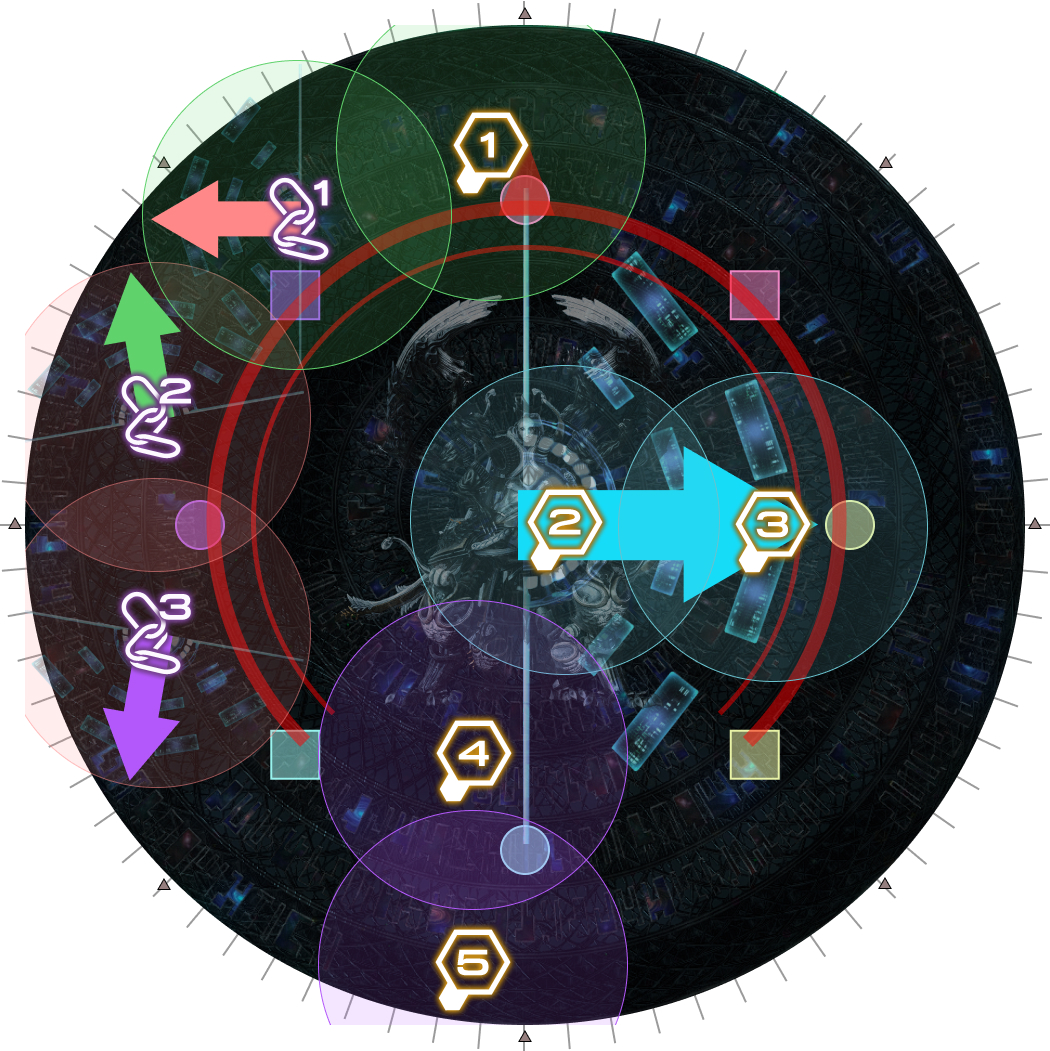
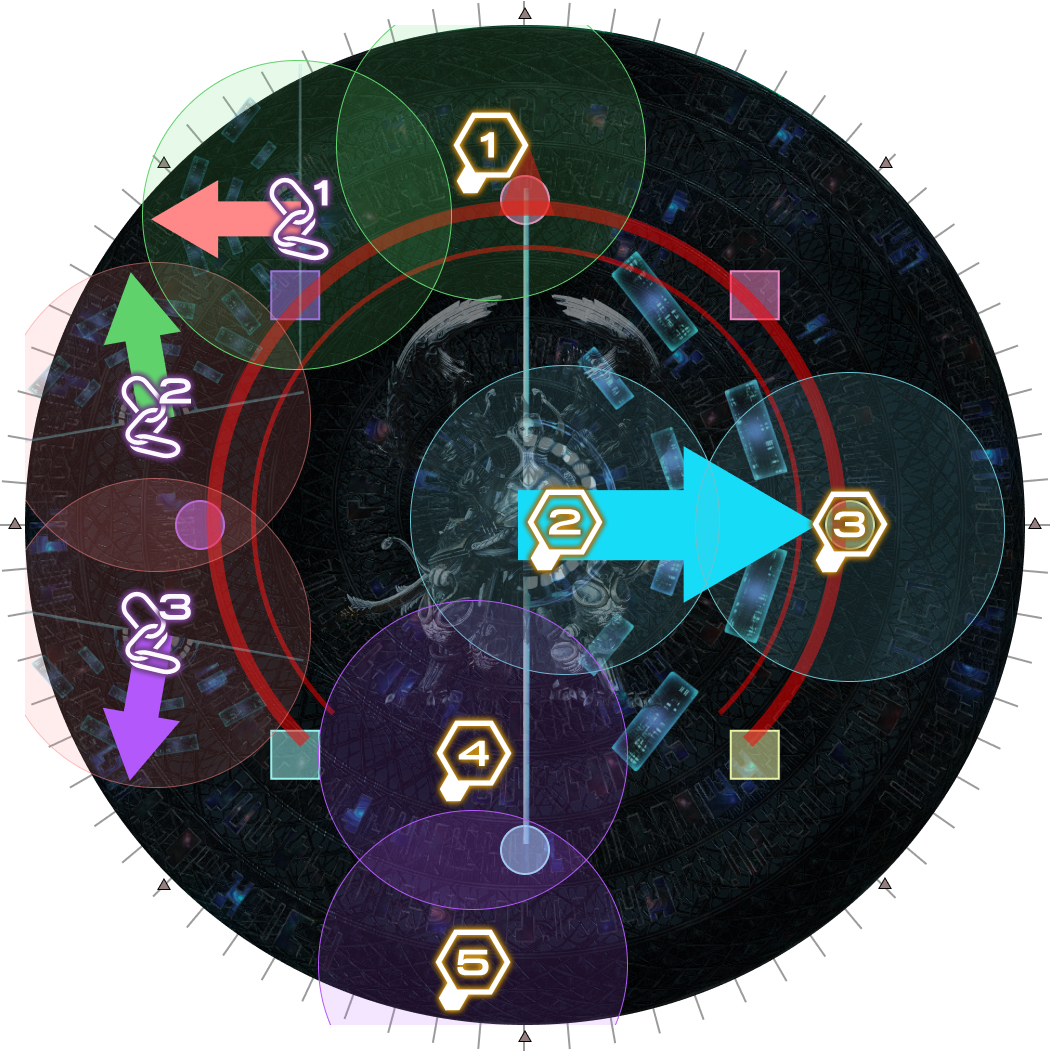
Add headers to monitor diagrams

Changed region(s): [[0.579, 0.3349, 0.9752, 0.6698]]

diff --git a/ultimates/top/03_omega_reconfigured.en.md b/ultimates/top/03_omega_reconfigured.en.md
@@ -392,7 +392,7 @@ Regression players stand away from the Critical Overflows instead.
         <li>
           <p><em>Critical Overflows <img style="height:1em" src="{{site.baseurl}}/assets/images/ultimates/top/03/debuffs/critical_overflow_bug.png">
           start with Critical Performance <img  style="height:1em" src="{{site.baseurl}}/assets/images/ultimates/top/03/debuffs/critical_performance_bug.png">
-          (blue Nisis), so will go to blue towers.</em></p>
+          (blue Nisis), so will go to blue  towers.</em></p>
           <ul>
             <li><em>Local Regressions <img style="height:1em" src="{{site.baseurl}}/assets/images/ultimates/top/03/debuffs/local_regression.png">
             (red/green tethers) follow Critical Overflows to the  same colour
@@ -760,6 +760,10 @@ PF currently resolves this using [Astoh's strat](https://twitter.com/Astoh_Shall
         the lesser the chance they get accidentally clipped.</li>
       </ul>
     </td>
+  </tr>
+  <tr>
+    <td style="text-align:center"><b>Omega's monitors face west</b></td>
+    <td style="text-align:center"><b>Omega's monitors face east</b></td>
   </tr>
   <tr>
     <td><img src="{{site.baseurl}}/assets/images/ultimates/top/03/monitors_02a.jpg">
